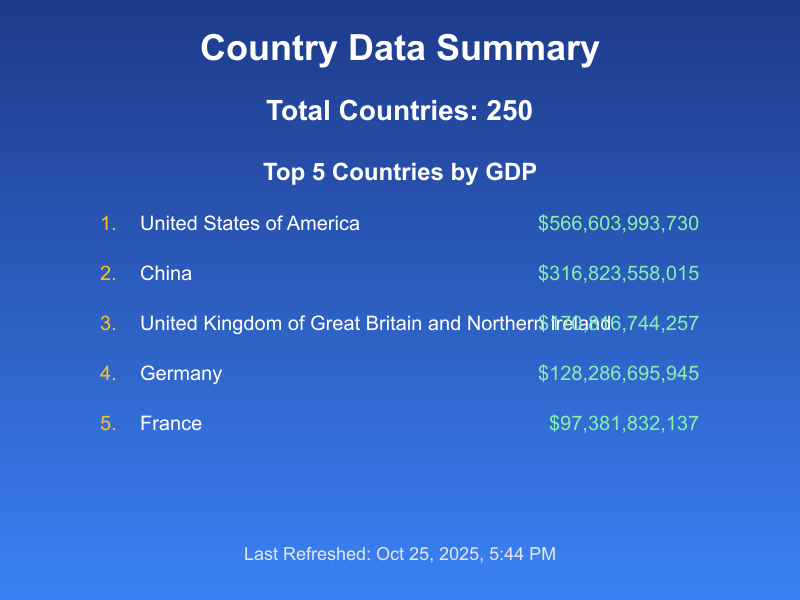
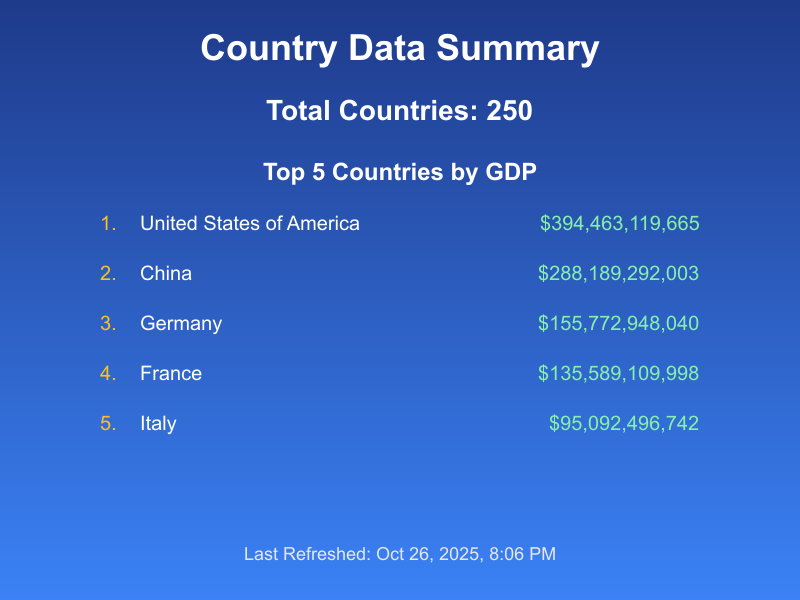
added README file

diff --git a/README.md b/README.md
@@ -1,1 +1,324 @@
-# country-api
+# Country Data API
+
+A RESTful API that fetches country data from external APIs, stores it in a MySQL database, and provides CRUD operations with caching support.
+
+## Features
+
+- Fetch country data from REST Countries API
+- Fetch exchange rates from Open Exchange Rates API
+- Calculate estimated GDP for each country
+- Cache data in MySQL database
+- Filter and sort countries by region, currency, and GDP
+- Generate summary images with top countries
+- Full CRUD operations
+- Comprehensive error handling
+
+## Installation
+
+### **Clone the repository**
+```bash
+git clone https://github.com/ameh0429/country-api.git
+cd country-api
+```
+
+### **Install dependencies**
+```bash
+npm install axios canvas dotenv express mysql2
+```
+
+### **Set up environment variables**
+Create a `.env` file in the root directory:
+```env
+PORT=3000
+DB_HOST=localhost
+DB_USER=root
+DB_PASSWORD=yourpassword
+DB_NAME=countries_db
+DB_PORT=3306
+```
+
+### **Create the MySQL database**
+```sql
+CREATE DATABASE countries_db;
+```
+
+### **Start the server**
+```bash
+npm start
+```
+
+For development with auto-reload:
+```bash
+npm run dev
+```
+
+The server will automatically create the necessary tables on startup.
+
+## API Endpoints
+
+### 1. Refresh Country Data
+Fetch fresh data from external APIs and update the database.
+
+**Request:**
+```http
+POST /api/countries/refresh
+```
+
+**Response:**
+```json
+{
+  "message": "Countries data refreshed successfully",
+  "total_countries": 250,
+  "last_refreshed_at": "2025-10-22T18:00:00.000Z"
+}
+```
+
+### 2. Get All Countries
+Retrieve all countries with optional filters.
+
+**Request:**
+```http
+GET /api/countries
+GET /api/countries?region=Africa
+GET /api/countries?currency=NGN
+GET /api/countries?sort=gdp_desc
+```
+
+**Query Parameters:**
+- `region` - Filter by region (e.g., Africa, Europe, Asia)
+- `currency` - Filter by currency code (e.g., NGN, USD, EUR)
+- `sort` - Sort results:
+  - `gdp_desc` - Sort by GDP descending
+  - `gdp_asc` - Sort by GDP ascending
+  - `population_desc` - Sort by population descending
+  - `population_asc` - Sort by population ascending
+
+**Response:**
+```json
+[
+  {
+    "id": 1,
+    "name": "Nigeria",
+    "capital": "Abuja",
+    "region": "Africa",
+    "population": 206139589,
+    "currency_code": "NGN",
+    "exchange_rate": 1600.23,
+    "estimated_gdp": 25767448125.2,
+    "flag_url": "https://flagcdn.com/ng.svg",
+    "last_refreshed_at": "2025-10-22T18:00:00Z"
+  }
+]
+```
+
+### 3. Get Single Country
+Retrieve a specific country by name.
+
+**Request:**
+```http
+GET /api/countries/Nigeria
+```
+
+**Response:**
+```json
+{
+  "id": 1,
+  "name": "Nigeria",
+  "capital": "Abuja",
+  "region": "Africa",
+  "population": 206139589,
+  "currency_code": "NGN",
+  "exchange_rate": 1600.23,
+  "estimated_gdp": 25767448125.2,
+  "flag_url": "https://flagcdn.com/ng.svg",
+  "last_refreshed_at": "2025-10-22T18:00:00Z"
+}
+```
+
+### 4. Delete Country
+Delete a country record from the database.
+
+**Request:**
+```http
+DELETE /api/countries/Nigeria
+```
+
+**Response:**
+```json
+{
+  "message": "Country deleted successfully"
+}
+```
+
+### 5. Get Status
+Get API statistics and last refresh timestamp.
+
+**Request:**
+```http
+GET /api/status
+```
+
+**Response:**
+```json
+{
+  "total_countries": 250,
+  "last_refreshed_at": "2025-10-22T18:00:00.000Z"
+}
+```
+
+### 6. Get Summary Image
+Retrieve the generated summary image showing top countries by GDP.
+
+**Request:**
+```http
+GET /api/countries/image
+```
+
+**Response:** PNG image file
+
+## Error Responses
+
+### 404 Not Found
+```json
+{
+  "error": "Country not found"
+}
+```
+
+### 400 Bad Request
+```json
+{
+  "error": "Validation failed",
+  "details": {
+    "currency_code": "is required"
+  }
+}
+```
+
+### 503 Service Unavailable
+```json
+{
+  "error": "External data source unavailable",
+  "details": "Could not fetch data from REST Countries API"
+}
+```
+
+### 500 Internal Server Error
+```json
+{
+  "error": "Internal server error"
+}
+```
+
+## Data Schema
+
+### Country Fields
+
+| Field | Type | Required | Description |
+|-------|------|----------|-------------|
+| id | INT | Auto | Primary key |
+| name | VARCHAR(255) | Yes | Country name |
+| capital | VARCHAR(255) | No | Capital city |
+| region | VARCHAR(100) | No | Geographic region |
+| population | BIGINT | Yes | Population count |
+| currency_code | VARCHAR(10) | Yes* | Currency code (e.g., NGN) |
+| exchange_rate | DECIMAL(20,6) | No | Exchange rate to USD |
+| estimated_gdp | DECIMAL(30,2) | No | Calculated GDP estimate |
+| flag_url | TEXT | No | URL to country flag |
+| last_refreshed_at | TIMESTAMP | Auto | Last update timestamp |
+
+*Note: `currency_code` can be null if country has no currency data
+
+### GDP Calculation
+
+```
+estimated_gdp = (population × random(1000-2000)) ÷ exchange_rate
+```
+
+A new random multiplier is generated on each refresh for each country.
+
+## Project Structure
+
+```
+country-api/
+├── src/
+│   ├── config/
+│   │   └── database.js          # Database connection and initialization
+│   ├── controllers/
+│   │   └── countryController.js # Request handlers
+│   ├── models/
+│   │   └── countryModel.js      # Database queries
+│   ├── routes/
+│   │   └── countryRoutes.js     # API routes
+│   ├── services/
+│   │   ├── externalApiService.js # External API calls
+│   │   └── imageService.js      # Image generation
+│   ├── middleware/
+│   │   ├── validation.js        # Input validation
+│   │   └── errorHandler.js      # Error handling
+│   └── server.js                # Main application entry
+├── cache/
+│   └── summary.png              # Generated summary image
+├── .env                         # Environment variables
+├── .env.example                 # Environment template
+├── package.json                 # Dependencies
+└── README.md                    # Documentation
+```
+
+## External APIs Used
+
+1. **REST Countries API**
+   - URL: `https://restcountries.com/v2/all?fields=name,capital,region,population,flag,currencies`
+   - Purpose: Fetch country information
+
+2. **Open Exchange Rates API**
+   - URL: `https://open.er-api.com/v6/latest/USD`
+   - Purpose: Fetch currency exchange rates
+
+## Currency Handling Logic
+
+### Multiple Currencies
+If a country has multiple currencies, only the **first currency code** from the array is stored.
+
+### No Currencies
+If a country has no currencies:
+- `currency_code`: `null`
+- `exchange_rate`: `null`
+- `estimated_gdp`: `0`
+- Country is still stored in database
+
+### Currency Not Found in Exchange API
+If the currency code is not found in exchange rates:
+- `exchange_rate`: `null`
+- `estimated_gdp`: `null`
+- Country is still stored in database
+
+### Environment Variables
+
+All configuration is done via `.env` file:
+- `PORT`: Server port (default: 3000)
+- `DB_HOST`: country-service-amehmathiasejeh.f.aivencloud.com
+- `DB_USER`: MySQL username
+- `DB_PASSWORD`: MySQL password
+- `DB_NAME`: defaultdb
+- `DB_PORT`: 10648
+
+## Error Handling
+
+The API includes comprehensive error handling:
+- **External API failures**: Returns 503 with details
+- **Database errors**: Returns 500
+- **Validation errors**: Returns 400 with field details
+- **Not found errors**: Returns 404
+- All errors return JSON responses
+
+## Performance Considerations
+
+- **Database indexing**: Indexes on `name`, `region`, and `currency_code`
+- **Connection pooling**: MySQL connection pool with 10 connections
+- **Caching**: All country data is cached in database
+- **Timeout handling**: 10-second timeout on external API calls
+
+## Support
+
+For issues or questions, please open an issue in the repository.
